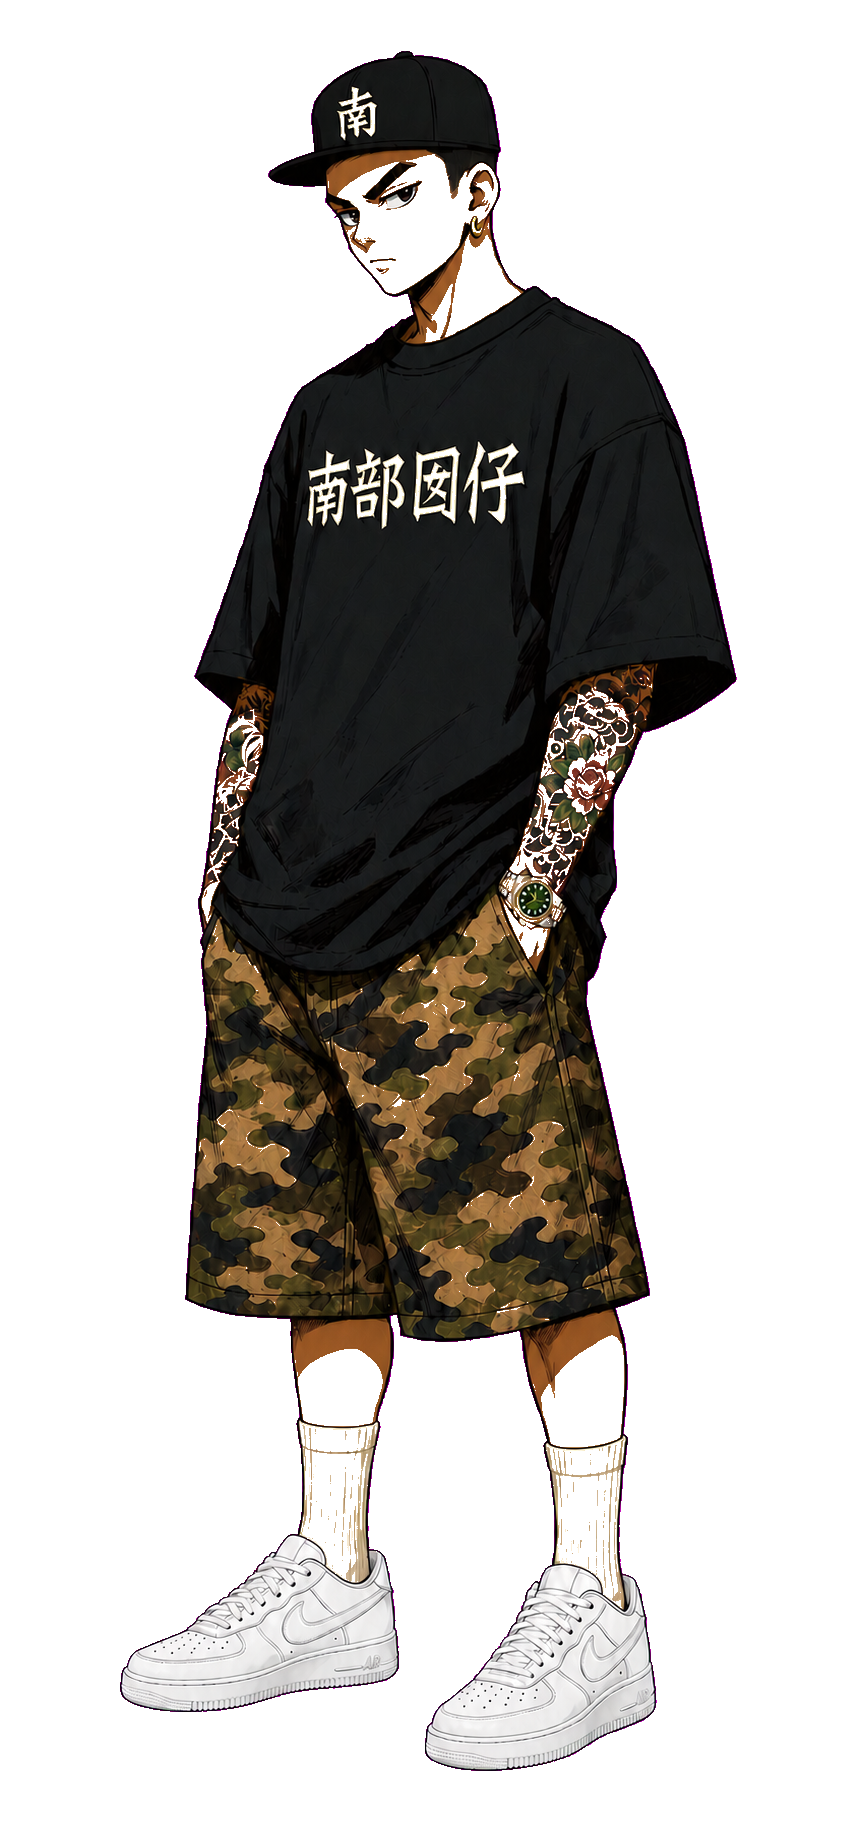
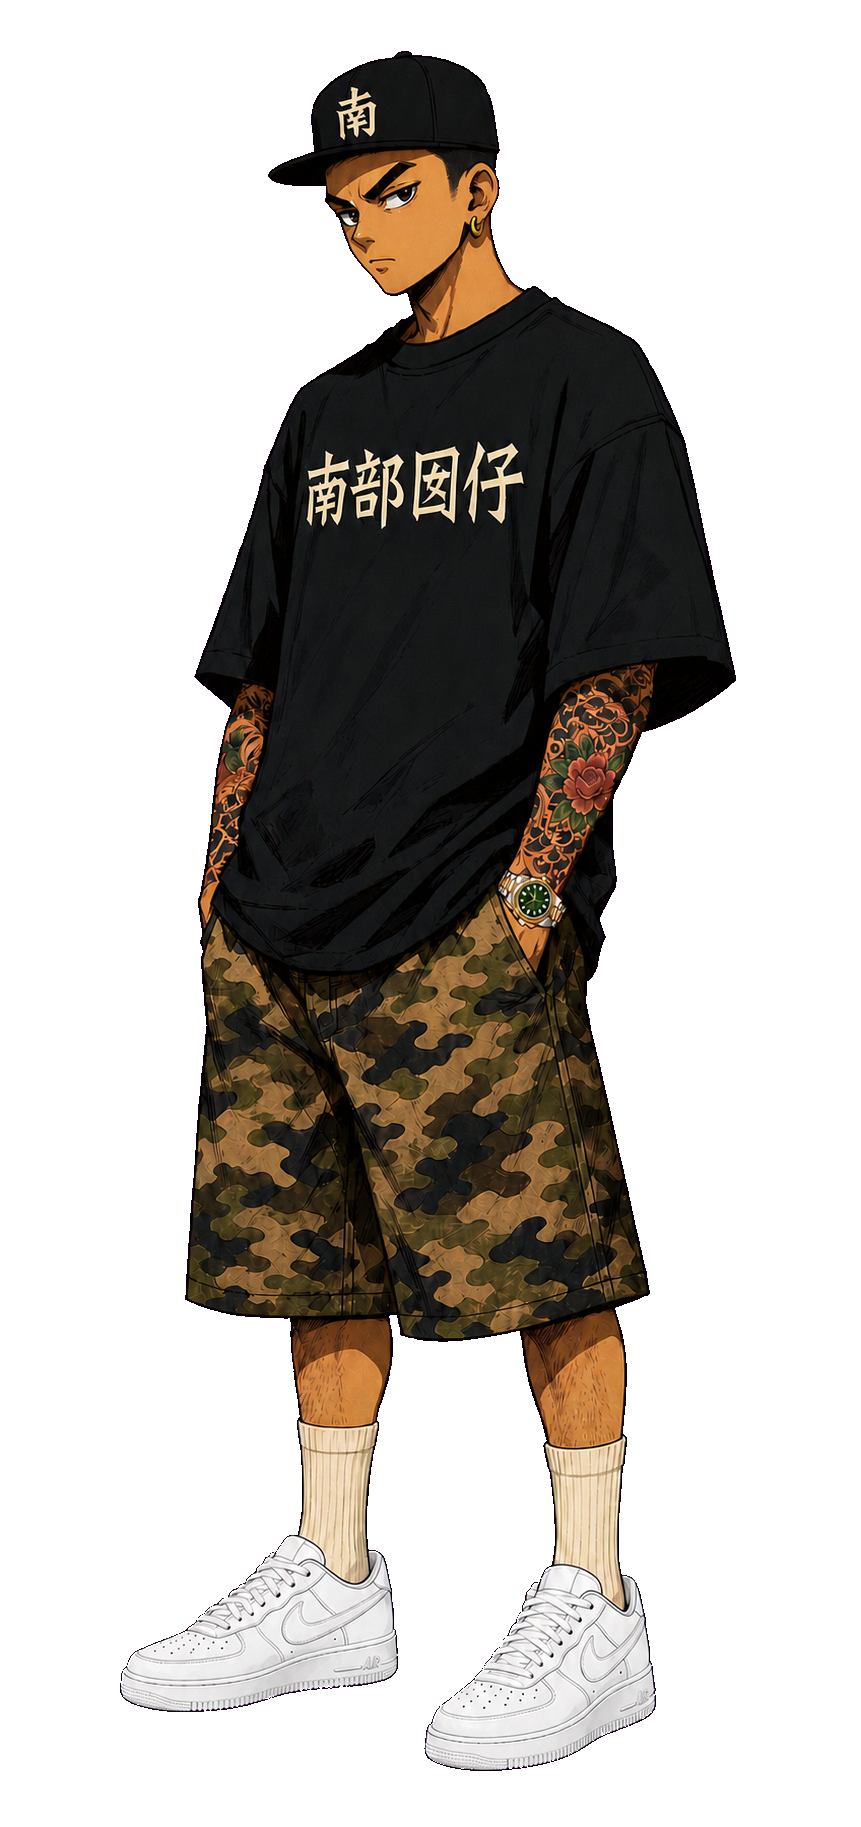
Fix Southkid alpha and yacht cut-in framing

diff --git a/404.html b/404.html
@@ -989,7 +989,7 @@ for (const id in ANIM_ROWS) {
   }
 }
 const IMGS = {};
-const ASSET_REV = '20260720-codex-archive-r19';
+const ASSET_REV = '20260722-entry-art-r20';
 // sm58_v2 錄音室素材整層只有 ~53% 不透明度（出圖時圖層透明度沒拉滿），
 // 戰場上會呈半透明。載入時補烘回實心；Codex 重出不透明正式檔後移除此表。
 const ALPHA_BAKE_GAIN = { tower_mint: 1.9 };
@@ -8135,14 +8135,21 @@ function draw() {
     ctx.fillRect(0, bandY + 3, W, 1);
     ctx.fillRect(0, bandY + bandH - 4, W, 1);
     // 角色大圖滑入（左→定點）：優先吃靜態立繪（codex 美術）放大，等比高度 band 92%
-    const cx2 = -260 + slide * (W*0.24 + 260);
-    const feetY = bandY + bandH - 14, bigH = bandH * 0.92;
+    const cutSpr = typeof cutin.spr === 'string' ? cutin.spr : null;
+    // Vehicle cut-ins need width-first composition. Treating the yacht like a
+    // standing person made its wide hull overflow the panel and crop the captain.
+    const vehicleCutin = cutSpr === 'yacht';
+    const artCenterX = vehicleCutin ? W * 0.23 : W * 0.24;
+    const cx2 = -260 + slide * (artCenterX + 260);
+    const feetY = vehicleCutin ? bandY + bandH * 0.84 : bandY + bandH - 14;
+    const bigH = bandH * (vehicleCutin ? 0.55 : 0.92);
     ctx.globalAlpha = slide;
     ctx.shadowColor = 'rgba(4,5,12,0.95)';
     ctx.shadowBlur = 12;
-    const cutSpr = typeof cutin.spr === 'string' ? cutin.spr : null;
     if (cutSpr && comicReady(cutSpr)) {
-      drawComic(cutSpr, cx2, feetY + Math.sin(animClock*3)*2, bigH, {anchor:'feet', rot:Math.sin(animClock*2)*0.02});
+      drawComic(cutSpr, cx2, feetY + Math.sin(animClock*3)*2, bigH, {
+        anchor:'feet', rot:Math.sin(animClock*2) * (vehicleCutin ? 0.008 : 0.02)
+      });
     } else if (cutSpr === 'didi' || cutSpr === 'dj' || cutSpr === 'savagem' || cutSpr === 'frankie') {
       drawComicHero(cutSpr, cx2, bandY + bandH*0.60, 2.9);
     } else if (cutSpr) {

diff --git a/game.html b/game.html
@@ -989,7 +989,7 @@ for (const id in ANIM_ROWS) {
   }
 }
 const IMGS = {};
-const ASSET_REV = '20260720-codex-archive-r19';
+const ASSET_REV = '20260722-entry-art-r20';
 // sm58_v2 錄音室素材整層只有 ~53% 不透明度（出圖時圖層透明度沒拉滿），
 // 戰場上會呈半透明。載入時補烘回實心；Codex 重出不透明正式檔後移除此表。
 const ALPHA_BAKE_GAIN = { tower_mint: 1.9 };
@@ -8135,14 +8135,21 @@ function draw() {
     ctx.fillRect(0, bandY + 3, W, 1);
     ctx.fillRect(0, bandY + bandH - 4, W, 1);
     // 角色大圖滑入（左→定點）：優先吃靜態立繪（codex 美術）放大，等比高度 band 92%
-    const cx2 = -260 + slide * (W*0.24 + 260);
-    const feetY = bandY + bandH - 14, bigH = bandH * 0.92;
+    const cutSpr = typeof cutin.spr === 'string' ? cutin.spr : null;
+    // Vehicle cut-ins need width-first composition. Treating the yacht like a
+    // standing person made its wide hull overflow the panel and crop the captain.
+    const vehicleCutin = cutSpr === 'yacht';
+    const artCenterX = vehicleCutin ? W * 0.23 : W * 0.24;
+    const cx2 = -260 + slide * (artCenterX + 260);
+    const feetY = vehicleCutin ? bandY + bandH * 0.84 : bandY + bandH - 14;
+    const bigH = bandH * (vehicleCutin ? 0.55 : 0.92);
     ctx.globalAlpha = slide;
     ctx.shadowColor = 'rgba(4,5,12,0.95)';
     ctx.shadowBlur = 12;
-    const cutSpr = typeof cutin.spr === 'string' ? cutin.spr : null;
     if (cutSpr && comicReady(cutSpr)) {
-      drawComic(cutSpr, cx2, feetY + Math.sin(animClock*3)*2, bigH, {anchor:'feet', rot:Math.sin(animClock*2)*0.02});
+      drawComic(cutSpr, cx2, feetY + Math.sin(animClock*3)*2, bigH, {
+        anchor:'feet', rot:Math.sin(animClock*2) * (vehicleCutin ? 0.008 : 0.02)
+      });
     } else if (cutSpr === 'didi' || cutSpr === 'dj' || cutSpr === 'savagem' || cutSpr === 'frankie') {
       drawComicHero(cutSpr, cx2, bandY + bandH*0.60, 2.9);
     } else if (cutSpr) {

diff --git a/index.html b/index.html
@@ -989,7 +989,7 @@ for (const id in ANIM_ROWS) {
   }
 }
 const IMGS = {};
-const ASSET_REV = '20260720-codex-archive-r19';
+const ASSET_REV = '20260722-entry-art-r20';
 // sm58_v2 錄音室素材整層只有 ~53% 不透明度（出圖時圖層透明度沒拉滿），
 // 戰場上會呈半透明。載入時補烘回實心；Codex 重出不透明正式檔後移除此表。
 const ALPHA_BAKE_GAIN = { tower_mint: 1.9 };
@@ -8135,14 +8135,21 @@ function draw() {
     ctx.fillRect(0, bandY + 3, W, 1);
     ctx.fillRect(0, bandY + bandH - 4, W, 1);
     // 角色大圖滑入（左→定點）：優先吃靜態立繪（codex 美術）放大，等比高度 band 92%
-    const cx2 = -260 + slide * (W*0.24 + 260);
-    const feetY = bandY + bandH - 14, bigH = bandH * 0.92;
+    const cutSpr = typeof cutin.spr === 'string' ? cutin.spr : null;
+    // Vehicle cut-ins need width-first composition. Treating the yacht like a
+    // standing person made its wide hull overflow the panel and crop the captain.
+    const vehicleCutin = cutSpr === 'yacht';
+    const artCenterX = vehicleCutin ? W * 0.23 : W * 0.24;
+    const cx2 = -260 + slide * (artCenterX + 260);
+    const feetY = vehicleCutin ? bandY + bandH * 0.84 : bandY + bandH - 14;
+    const bigH = bandH * (vehicleCutin ? 0.55 : 0.92);
     ctx.globalAlpha = slide;
     ctx.shadowColor = 'rgba(4,5,12,0.95)';
     ctx.shadowBlur = 12;
-    const cutSpr = typeof cutin.spr === 'string' ? cutin.spr : null;
     if (cutSpr && comicReady(cutSpr)) {
-      drawComic(cutSpr, cx2, feetY + Math.sin(animClock*3)*2, bigH, {anchor:'feet', rot:Math.sin(animClock*2)*0.02});
+      drawComic(cutSpr, cx2, feetY + Math.sin(animClock*3)*2, bigH, {
+        anchor:'feet', rot:Math.sin(animClock*2) * (vehicleCutin ? 0.008 : 0.02)
+      });
     } else if (cutSpr === 'didi' || cutSpr === 'dj' || cutSpr === 'savagem' || cutSpr === 'frankie') {
       drawComicHero(cutSpr, cx2, bandY + bandH*0.60, 2.9);
     } else if (cutSpr) {
